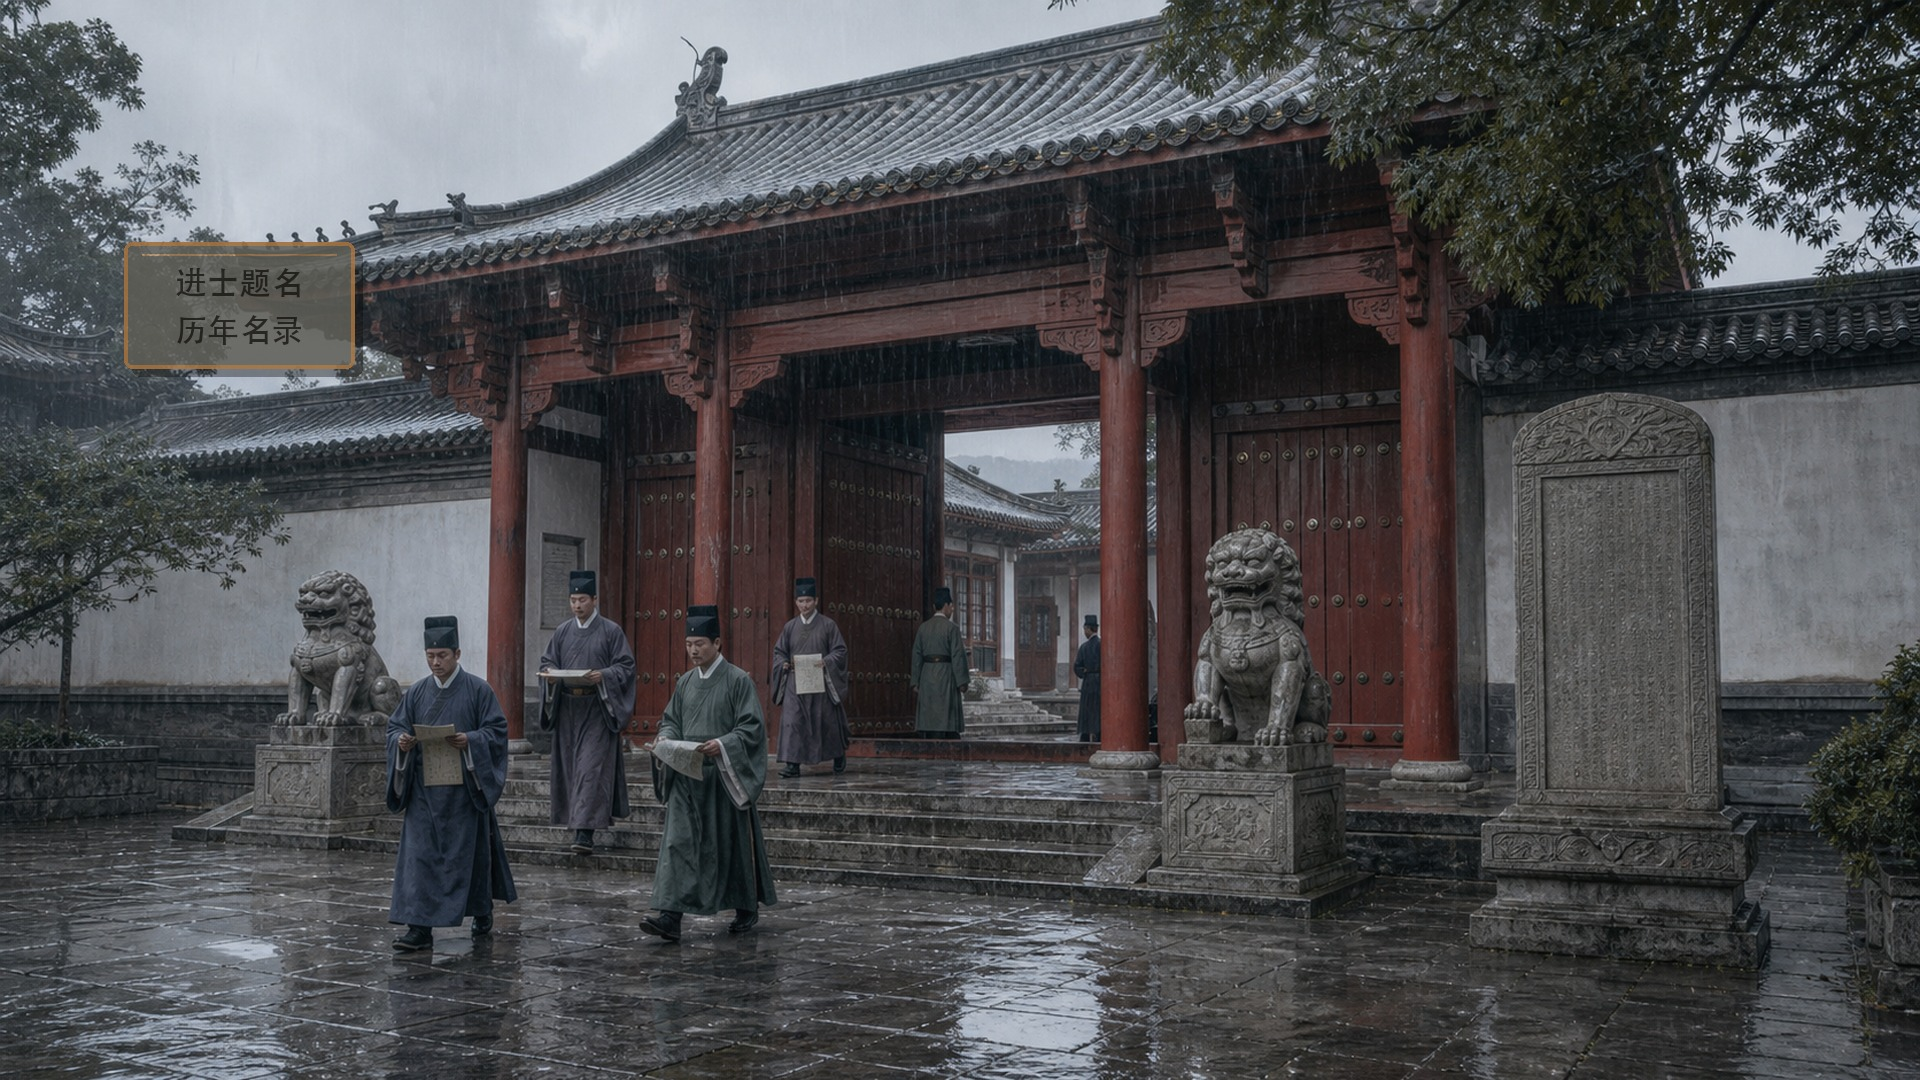
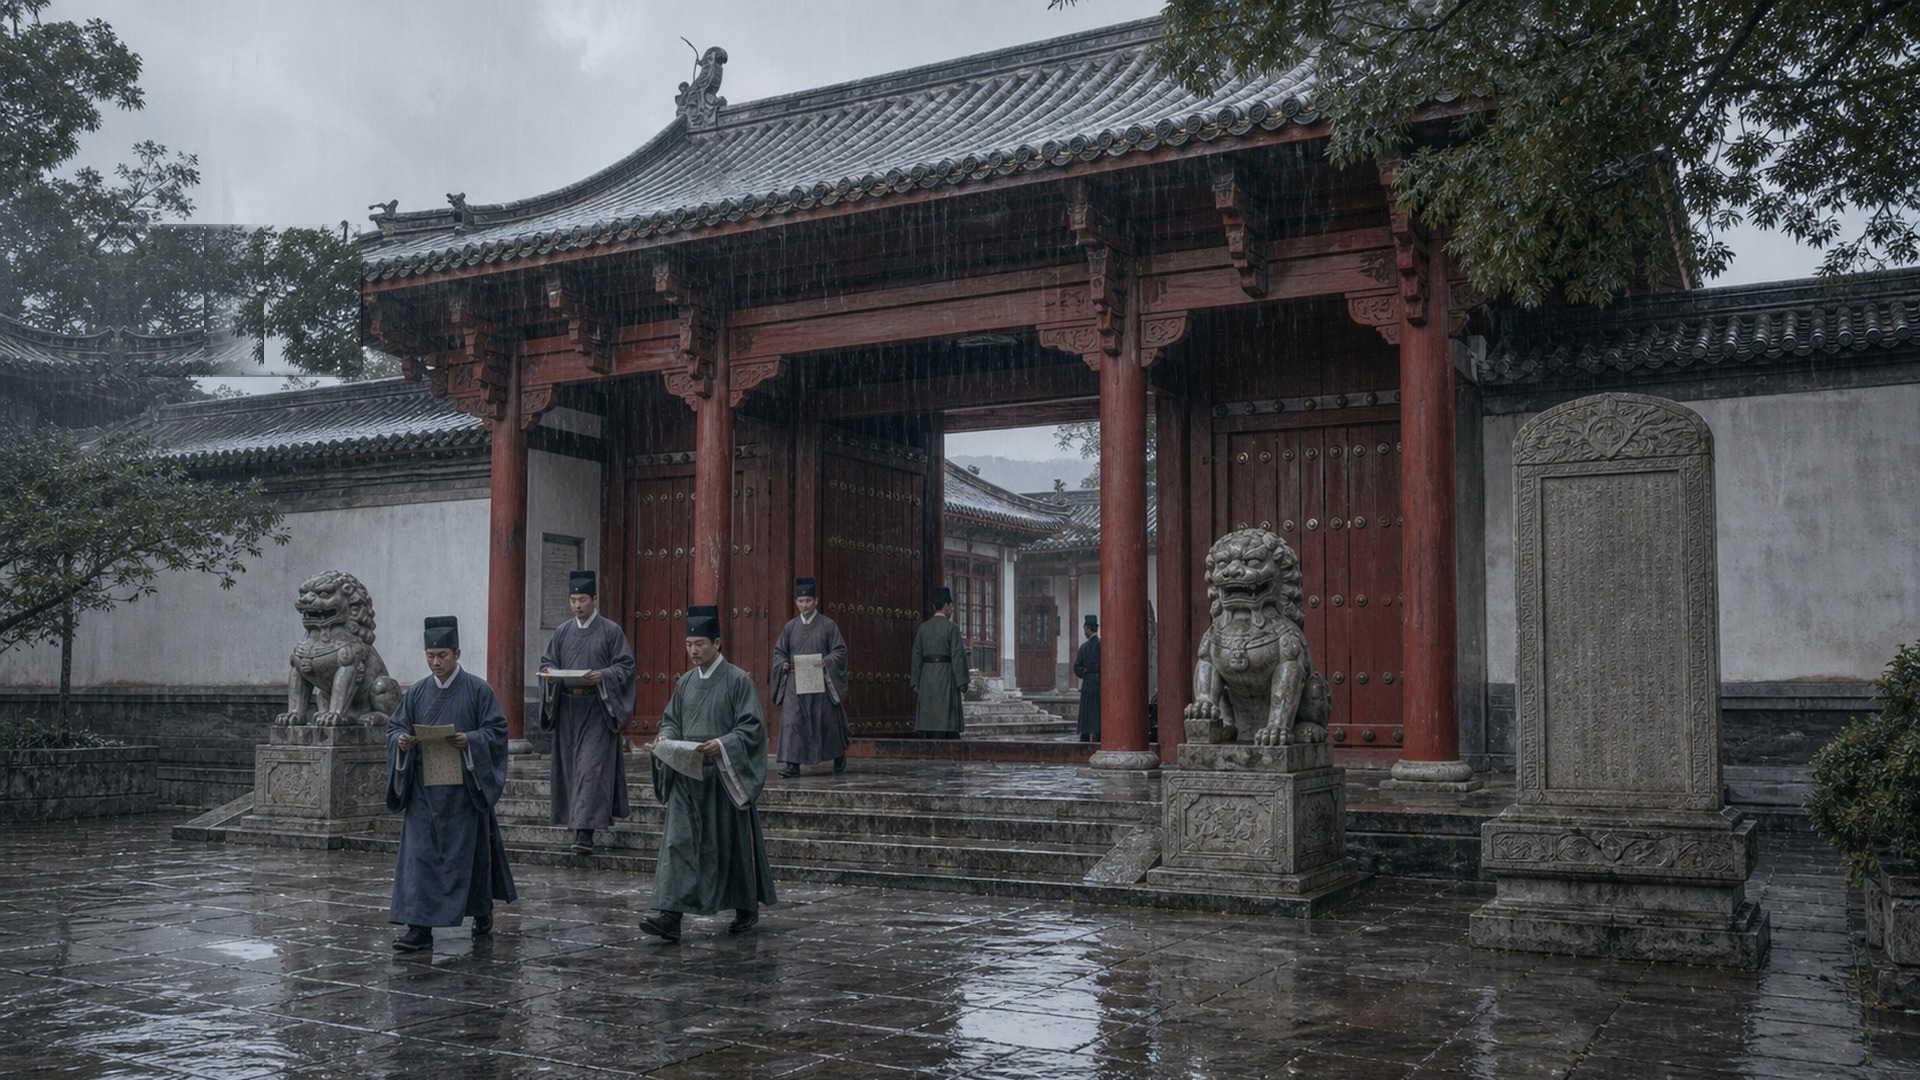
fix(art): 抹掉福州衙门底图左上角的伪界面牌「进士题名 历年名录」
AI 出图带进来的赭边半透明牌悬在天空与屋檐交界处，福州港页上像漏掉的控件（02 09-26 截图点验）。
牌子背后是主殿屋顶左端与左侧树冠，换匾反而更怪，改为「树冠挡住屋角」：左半镜像延伸左侧树冠与屋檐，
右半取左上角最密枝叶翻转盖住屋顶断口，上沿提到 y224 连悬空的一排屋脊兽一并盖掉；60px 接缝交叉淡化、8px 外沿羽化，
全用原画真实像素。补区内牌子暖色描边像素 2792 → 0；tools/art/erase_bg_fuzhou_sign.py 以 git HEAD 原图为底，幂等可重跑。
check_assets / check_symbols 通过，port_fuzhou 巡检截帧确认。

Changed region(s): [[0.0625, 0.1833, 0.1875, 0.3667]]

diff --git a/tools/art/erase_bg_fuzhou_sign.py b/tools/art/erase_bg_fuzhou_sign.py
@@ -1,0 +1,85 @@
+#!/usr/bin/env python3
+# -*- coding: utf-8 -*-
+"""背景画修瑕：抹掉 bg_fuzhou_yamen.jpg 左上角的伪界面牌（2026-09-26 02 截图点验发现）。
+
+原画左上角天空与屋檐交界处，AI 出图带进来一块赭边半透明牌「进士题名 / 历年名录」，福州港页上像漏掉的控件。
+牌子悬在半空、背后是主殿屋顶左端与左侧树冠，换成匾反而更怪（与 fix_bg_signs.py 的做法不同），所以整块抹掉，
+改成「树冠挡住屋角」：
+
+1. 补区 = 牌子暖色描边外框（实测 x 124–354、y 242–368）外扩；上沿提到 y 224，把牌子上方悬空的一排屋脊兽一并盖掉。
+2. 左半：以补区左沿为轴镜像左侧紧邻的树冠与屋檐（画面左边只剩 117 像素，全取）。
+3. 右半：取左上角最密的一簇枝叶，水平翻转，让最密的一列落在右沿，盖住主殿屋顶被截断的左端。
+4. 两半之间 60 像素交叉淡化；补区外沿 8 像素高斯羽化。取样都是原画真实像素，雨丝与颗粒自然一致。
+
+幂等：以 git 里 HEAD 的原图为底（git show 只读）；取不到 git 时退回当前文件，但先查补区里是否还有牌子的暖色描边，
+没有就说明已修过，直接退出，以免叠画。
+用法：python3 tools/art/erase_bg_fuzhou_sign.py
+"""
+import io
+import os
+import subprocess
+import sys
+
+import numpy as np
+from PIL import Image, ImageFilter
+
+ROOT = os.path.dirname(os.path.dirname(os.path.dirname(os.path.abspath(__file__))))
+REL = "assets/bg_fuzhou_yamen.jpg"
+SIGN = (124, 242, 354, 368)        # 牌子暖色描边外框（原图 1920×1080 像素）
+X0, Y0, X1, Y1 = 117, 224, 361, 375
+SEAM = 60
+FEATHER = 8
+
+
+def _warm_px(a):
+    sub = a[SIGN[1]:SIGN[3], SIGN[0]:SIGN[2]]
+    return int((((sub[..., 0] - sub[..., 2]) > 40 / 255) & (sub[..., 0] > 120 / 255)).sum())
+
+
+def _source():
+    try:
+        blob = subprocess.run(["git", "-C", ROOT, "show", "HEAD:" + REL], capture_output=True, check=True).stdout
+        img = Image.open(io.BytesIO(blob)).convert("RGB")
+        a = np.asarray(img, np.float32) / 255.0
+        if _warm_px(a) > 500:
+            return a
+    except Exception:
+        pass
+    a = np.asarray(Image.open(os.path.join(ROOT, REL)).convert("RGB"), np.float32) / 255.0
+    if _warm_px(a) <= 500:
+        print("补区里已没有牌子的暖色描边，视为已修过，退出")
+        sys.exit(0)
+    return a
+
+
+def _blur(x, r):
+    u8 = Image.fromarray((np.clip(x, 0, 1) * 255).astype(np.uint8))
+    return np.asarray(u8.filter(ImageFilter.GaussianBlur(r)), np.float32) / 255.0
+
+
+def main():
+    a = _source()
+    h, w = Y1 - Y0, X1 - X0
+    half = X0
+    left = a[Y0:Y1, 0:X0][:, ::-1]
+    dense = a[18:18 + h, 0:w - half][:, ::-1]
+    patch = np.concatenate([left, dense], axis=1)
+    t = np.linspace(0, 1, SEAM)[None, :, None]
+    patch[:, half - SEAM // 2:half + SEAM // 2] = left[:, -SEAM:] * (1 - t) + dense[:, :SEAM] * t
+
+    full = a.copy()
+    full[Y0:Y1, X0:X1] = np.clip(patch, 0, 1)
+    fm = np.zeros(a.shape, np.float32)
+    fm[Y0:Y1, X0:X1] = 1
+    fm = _blur(fm, FEATHER)[..., :1]
+    fm = np.where(fm > 0.5, np.minimum(1, (fm - 0.5) * 2 + 0.5), fm)
+    out = a * (1 - fm) + full * fm
+
+    left_px = _warm_px(out)
+    Image.fromarray((np.clip(out, 0, 1) * 255 + 0.5).astype(np.uint8)).save(
+        os.path.join(ROOT, REL), quality=93, subsampling=0)
+    print(f"写出 {REL}；补区内残留暖色描边像素 {left_px}（修前 {_warm_px(a)}）")
+
+
+if __name__ == "__main__":
+    main()
